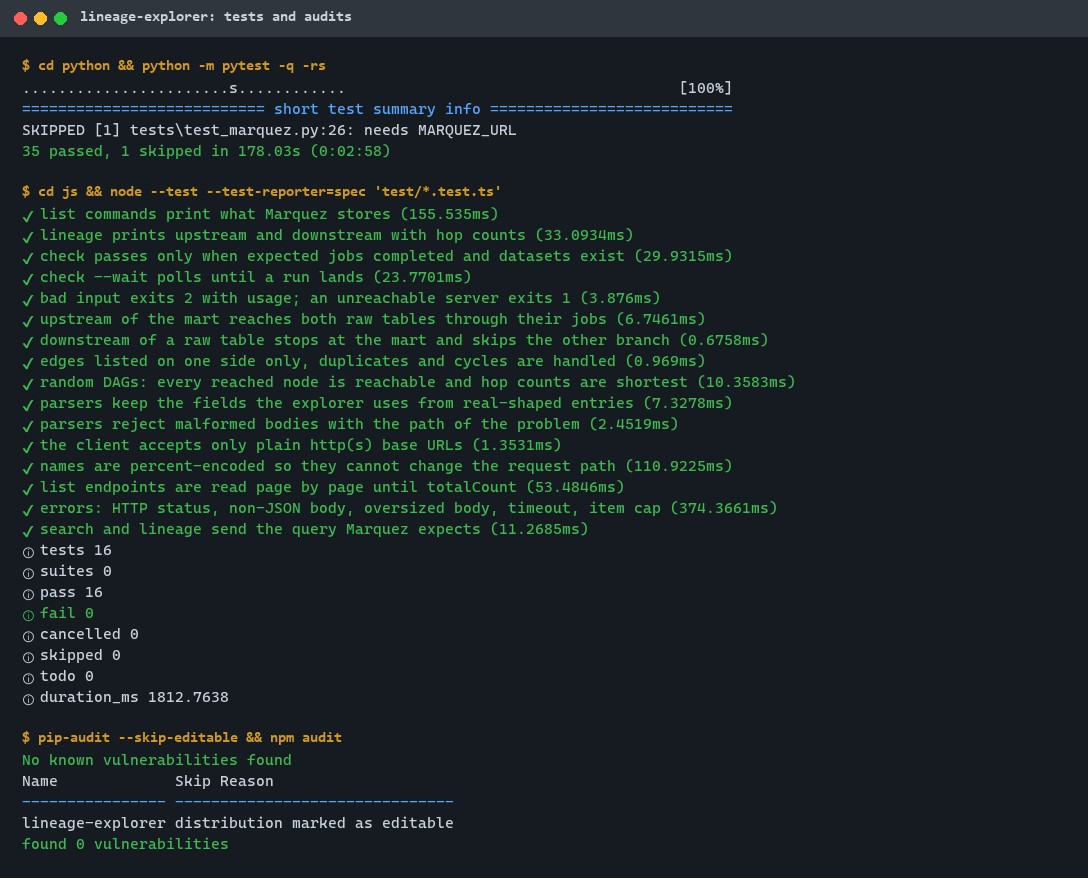
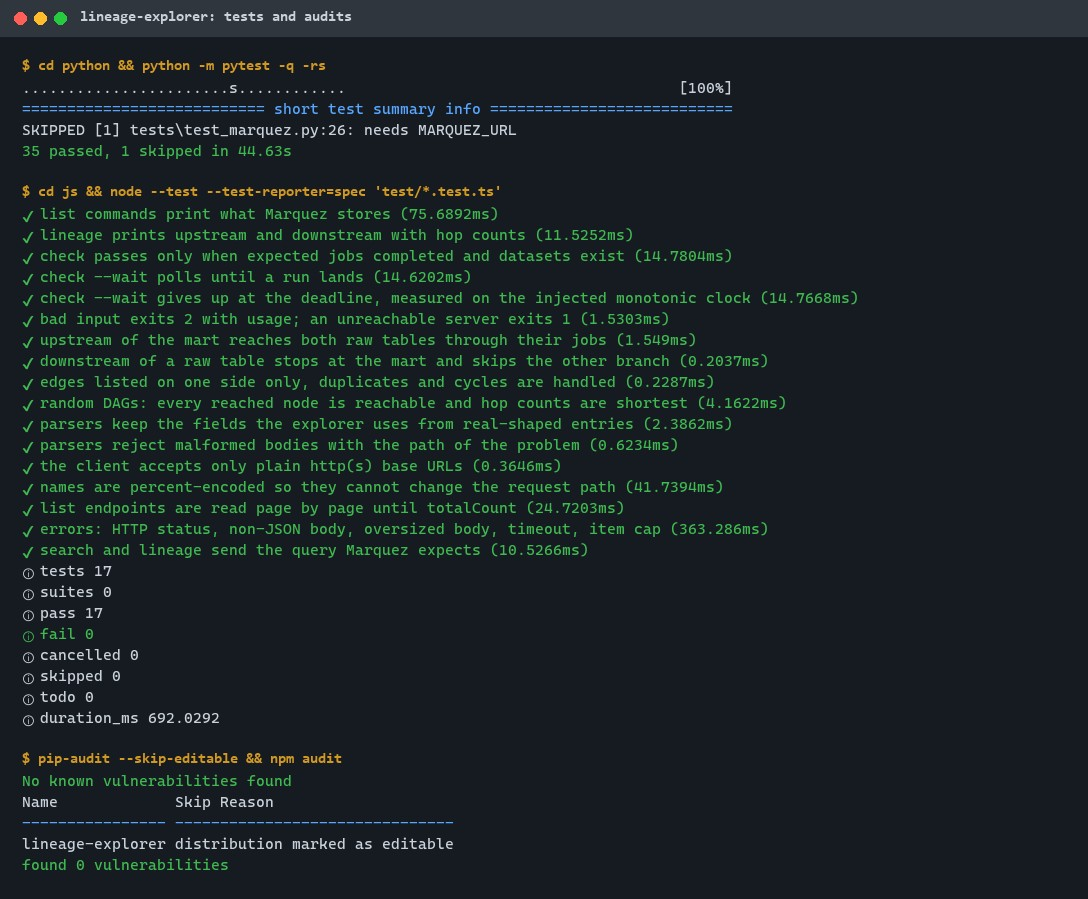
test: check the 10 quality rules, kill the surviving mutant
The check --wait deadline was never allowed to expire in a test; a new
test drives it on an injected clock to the exact boundary. 52 tests.

Changed region(s): [[0.0, 0.0615, 0.7812, 0.7995], [0.0, 0.8303, 0.4062, 0.9841], [0.0938, 0.0, 0.125, 0.0308]]

diff --git a/js/test/cli.test.ts b/js/test/cli.test.ts
@@ -87,6 +87,28 @@ test("check --wait polls until a run lands", async () => {
   }
 });
 
+test("check --wait gives up at the deadline, measured on the injected monotonic clock", async () => {
+  let calls = 0;
+  const fake = await startFake({
+    "/api/v1/namespaces/scripts/jobs": (_u, _q, res) => {
+      calls++;
+      res.end(JSON.stringify({ totalCount: 1, jobs: [job("scripts", "clean_orders", [], [], "RUNNING")] }));
+    },
+  });
+  let t = 0;
+  const out: string[] = [];
+  const io = { out: (l: string) => out.push(l), err: () => undefined, env: {}, now: () => t, sleep: async (ms: number) => { t += ms; } };
+  try {
+    // Polls at 0, 2 and 4 s; the 4 s poll reaches the 4 s deadline and is the last one.
+    const code = await run(["--url", fake.url, "check", "--job", "scripts::clean_orders", "--wait", "4"], io);
+    assert.equal(code, 1);
+    assert.equal(calls, 3);
+    assert.equal(out.at(-1), "CHECK FAILED");
+  } finally {
+    await fake.close();
+  }
+});
+
 test("bad input exits 2 with usage; an unreachable server exits 1", async () => {
   for (const argv of [[], ["frobnicate"], ["datasets"], ["check"], ["check", "--job", "nonamespace"], ["lineage", "orders"], ["lineage", "dataset:a:b", "--depth", "500"], ["--url", "file:///x", "namespaces"], ["--bogus"]]) {
     const r = await cli(argv);

diff --git a/docs/quality/2026-11-01.md b/docs/quality/2026-11-01.md
@@ -1,0 +1,51 @@
+# Quality check 2026-11-01
+
+The ten quality rules checked against the code, with evidence. Python 3.14.5 (fresh `.venv`),
+Node.js 24, Windows 11, Intel Core i7-13700H. External calls: the OpenLineage HTTP transport
+(Python) and the Marquez REST API (TypeScript); the Marquez, Spark and Airflow runs are CI-only.
+
+| # | Rule | Status | Evidence |
+|---|---|---|---|
+| 1 | Every call can fail | pass | Python: the HTTP transport has a 10 s timeout (`emitter.client_for`); the installed openlineage-python 1.54.0 retries POSTs at most 5 times with backoff 0.3 on 500/502/503/504 (`http_common.DEFAULT_RETRY_CONFIG`) and raises on an HTTP error (`raise_for_status`), so a failed START stops the run instead of being dropped. TypeScript: every request has `AbortSignal.timeout` (10 s default), a body cap (16 MiB) and an item cap (10,000), and every failure becomes a `MarquezError` (`marquez.ts` `get`, `readBounded`, `paged`); the CLI maps it to exit 1. `check --wait` polls every 2 s, bounded by `--wait` (0 to 600 s). No swallowed errors: the one `catch` without a rethrow in `checkOnce` treats only a 404 namespace as "no jobs" and rethrows everything else. |
+| 2 | Writes safe to retry | pass | The emitter only appends events (file transport, `append=True`) or POSTs them; each event carries its run's `runId` and `eventType`, so a retried POST repeats the same event for the same run rather than creating a new run. The demo rewrites its CSV outputs whole on every run. The TypeScript side only reads. |
+| 3 | No race conditions | pass | No threads or shared mutable state in either package; the TypeScript CLI awaits each request, and `summary` runs two independent reads in `Promise.all`. |
+| 4 | Don't trust the clock | fixed | Event times are UTC (`datetime.now(UTC).isoformat()`, `emitter.py`). Found: `check --wait` computed its deadline from `Date.now()` deltas; now `performance.now()` (injectable as `Io.now`), test `check --wait gives up at the deadline, measured on the injected monotonic clock`. |
+| 5 | Read before changing | pass | APIs exist in the pinned versions (openlineage-python 1.54.0, jsonschema 4, TypeScript 7; mypy and tsc strict pass). Environment variables: `OPENLINEAGE_URL` (default target of `lineage-emit demo`) and `MARQUEZ_URL` (CLI and the CI-only test), both in the README; the `DBT_*`/`OPENLINEAGE__*` variables in the Makefile are dbt's and OpenLineage's own. |
+| 6 | Never break compatibility | pass | Events are validated against the official OpenLineage 2-0-2 schemas and facet schemas bundled offline (`validate.py`); unknown custom facets are allowed. Parsers of Marquez responses treat optional fields as optional (`optStr`, `optNum`). |
+| 7 | One source of truth | pass | The bundled schemas in `python/src/lineage_explorer/schemas` are copies of OpenLineage 1.54.0's (named in `validate.py` and `schemas/NOTICE`), updated together with the `openlineage-python==1.54.0` pin. Marquez is the store; the CLI caches nothing. Versions: Node 24 in CI, `engines`, README; Python 3.11+ in `pyproject.toml` and README, CI 3.12. |
+| 8 | Small changes, no secrets, validate input | pass | Secret scan (`grep -rniE "password\|secret\|api_?key\|token"` over `python/src`, `js/src`): no matches. Inputs validated with clear errors: job and dataset names (`_check_name`), declared columns for column lineage, target URLs (`client_for`), event files (line and event caps, JSON objects only), Marquez base URL, search term, depth, `--job` spec and integer options (`cli.ts`). No new dependency. |
+| 9 | Tests that can fail | fixed | No tautologies; the one skip has a reason (`needs MARQUEZ_URL`, the CI `marquez` job runs it), and `test_dbt.py` uses `importorskip` with a reason. Mutation table below: 16 of 17 killed before, 17 of 17 after. |
+| 10 | Re-verify | pass | `bash .tmp/check.sh`: ruff, ruff format, mypy `--strict`, tsc `--strict` ok; `35 passed, 1 skipped`; `tests 17`, `pass 17`, `fail 0`; pip-audit `No known vulnerabilities found`; npm audit `found 0 vulnerabilities`; `CHECK PASS`; `lineage-explorer: OK`. |
+
+## Mutation check
+
+Hand mutations, one at a time, then reverted. Python: `pytest python/tests` without the dbt test.
+TypeScript: `node --test js/test/`. The deadline mutant was also run against the previous tests and
+the previous `Date.now()` code.
+
+| Function | Mutation | Killed before? | Test added |
+|---|---|---|---|
+| `LineageEmitter.run` | COMPLETE instead of FAIL on an exception | yes | - |
+| `DatasetRef.__post_init__` | lineage for undeclared columns accepted | yes | - |
+| `_check_name` | empty names accepted | yes | - |
+| `client_for` | any URL scheme accepted | yes | - |
+| `read_events` | line cap raised by 10 bytes | yes | - |
+| `read_events` | non-object lines accepted | yes | - |
+| `validate_event` | facet schemas skipped | yes | - |
+| `summarize` | column lineage counted on START events too | yes | - |
+| `read_events` | event cap off by one | yes | - |
+| `walk` | visited nodes revisited | yes | - |
+| `buildGraph` | in-edges ignored | yes | - |
+| `MarquezClient.paged` | stops after the first full page | yes | - |
+| `MarquezClient.paged` | item cap doubled | yes | - |
+| `MarquezClient.readBounded` | size cap doubled | yes | - |
+| `parseRun` | unknown run states accepted | yes | - |
+| `splitJobSpec` | `--job` without `::TEXT` accepted | yes | - |
+| `run` (`check --wait`) | deadline check `>=` -> later | no (no test let the wait expire) | `check --wait gives up at the deadline, measured on the injected monotonic clock` |
+
+Score: 16 of 17 killed before, 17 of 17 after.
+
+## Known limitations
+
+- The Marquez, Spark and Airflow integrations are verified only in CI (Docker services).
+- A retried HTTP POST can store the same event twice in Marquez; it describes the same run.

diff --git a/README.md b/README.md
@@ -13,7 +13,7 @@ A plain-script pipeline and a real `dbt-ol` run on DuckDB, with their events cap
 
 ![lineage-emit demo, dbt-ol run and lineage-emit validate](docs/proof/events.jpg)
 
-51 tests pass locally (35 Python, 16 TypeScript; one Marquez test runs in CI only), and both dependency audits are clean:
+52 tests pass locally (35 Python, 17 TypeScript; one Marquez test runs in CI only), and both dependency audits are clean:
 
 ![pytest, node --test, pip-audit and npm audit](docs/proof/tests.jpg)
 
@@ -76,7 +76,7 @@ Two parts, each in its own folder: [`python/`](python) (the emitter, the validat
 python -m venv .venv && . .venv/bin/activate   # Windows: .venv\Scripts\activate
 make setup        # pip install -e "python[dev,dbt]"; npm ci in js/
 make lint         # ruff, ruff format, mypy --strict, tsc --strict
-make test         # 35 Python tests (incl. a real dbt-ol run) + 16 TypeScript tests
+make test         # 35 Python tests (incl. a real dbt-ol run) + 17 TypeScript tests
 make audit        # pip-audit and npm audit
 make demo         # two CSV scripts -> events in .tmp/events/scripts.jsonl, then validated
 make dbt-events   # dbt-ol seed + run on DuckDB -> .tmp/events/dbt.jsonl, then validated
@@ -98,7 +98,7 @@ Spark and Airflow use only configuration: `spark-submit --packages io.openlineag
 
 ## Tests and results
 
-Full commands, numbers and the DMAIC record: [docs/results/m1.md](docs/results/m1.md).
+Full commands, numbers and the DMAIC record: [docs/results/m1.md](docs/results/m1.md). Quality check of the 10 engineering rules, with a mutation test of the core functions: [docs/quality/2026-11-01.md](docs/quality/2026-11-01.md).
 
 | Test file | Tests | What it proves |
 |---|---|---|
@@ -109,11 +109,11 @@ Full commands, numbers and the DMAIC record: [docs/results/m1.md](docs/results/m
 | `python/tests/test_marquez.py` | 1 (CI) | Custom emitter to a real Marquez; job, run, inputs, outputs, fields and lineage read back through the API |
 | `js/test/marquez.test.ts` | 7 | Typed parsing, URL and encoding safety, paging, size, time and item limits, error statuses |
 | `js/test/graph.test.ts` | 4 | Upstream and downstream walks, one-sided edges, cycles; 25 random DAGs match shortest-path hop counts |
-| `js/test/cli.test.ts` | 5 | List, summary and lineage output; `check` pass, miss and `--wait`; exit codes 2 for usage and 1 for server errors |
+| `js/test/cli.test.ts` | 6 | List, summary and lineage output; `check` pass, miss, `--wait` and its deadline on a monotonic clock; exit codes 2 for usage and 1 for server errors |
 
 | Check | Result |
 |---|---|
-| Tests | **51 passed** locally (Python 35, TypeScript 16), 1 skipped (needs Marquez, runs in CI), 0 failed |
+| Tests | **52 passed** locally (Python 35, TypeScript 17), 1 skipped (needs Marquez, runs in CI), 0 failed |
 | Captured events | scripts 6 and dbt 10 events, **0 schema problems**, 19 output columns with column lineage |
 | Lint / types | ruff, ruff format, `mypy --strict`, `tsc --strict`: clean |
 | Audit | `pip-audit`: no known vulnerabilities; `npm audit`: 0 vulnerabilities |

diff --git a/docs/results/m1.md b/docs/results/m1.md
@@ -108,3 +108,27 @@ Re-run, `bash .tmp/check.sh` (Python 3.14.5, Node.js 24.19.0):
 | `.tmp/check.sh` | `CHECK PASS` |
 
 The CI-only jobs (Marquez, Spark, Airflow) were not run locally for this pass.
+
+## Quality check 2026-11-01
+
+The 10 engineering rules were checked against the code; the table, the evidence and the mutation
+table are in [docs/quality/2026-11-01.md](../quality/2026-11-01.md).
+
+- Fixed: `lineage-explorer check --wait` measured its deadline with `Date.now()`, so a wall-clock
+  step (NTP, manual change) could cut the wait short or stretch it. It now uses a monotonic clock
+  (`performance.now()`, injectable for tests); new test `check --wait gives up at the deadline`.
+- Mutation check (17 hand mutations of the emitter, validator, Marquez client, graph walk and CLI):
+  16 killed by the existing tests; the deadline comparison survived (no test let the wait expire)
+  and is now killed.
+
+Re-run, `bash .tmp/check.sh` (fresh `.venv` and `node_modules`):
+
+| Check | Result |
+|---|---|
+| ruff, ruff format, mypy --strict, tsc --strict | clean |
+| pytest | `35 passed, 1 skipped` (the Marquez test runs in CI) |
+| node --test | `tests 17`, `pass 17`, `fail 0` |
+| pip-audit, npm audit | `No known vulnerabilities found`, `found 0 vulnerabilities` |
+
+The first pytest run on the fresh `.venv` hit the 300 s pytest timeout inside the first `dbt-ol`
+call (cold start, no bytecode cache); the rerun passed in 45 s. The CI-only jobs were not run locally.
